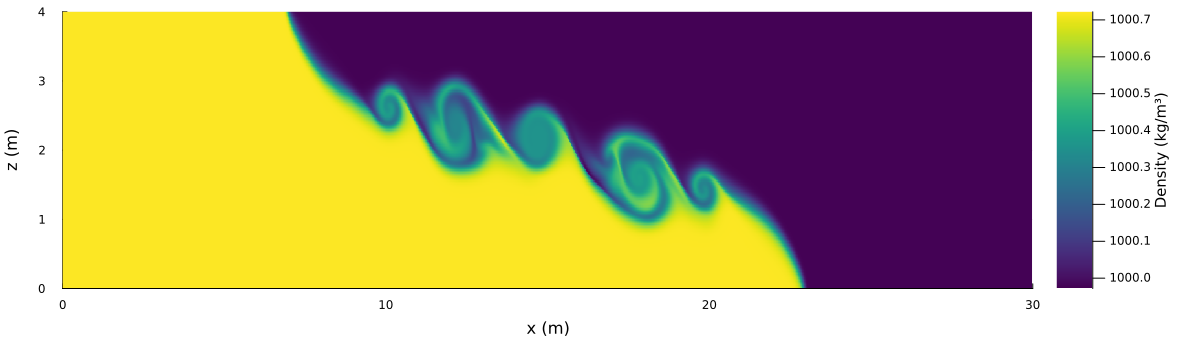
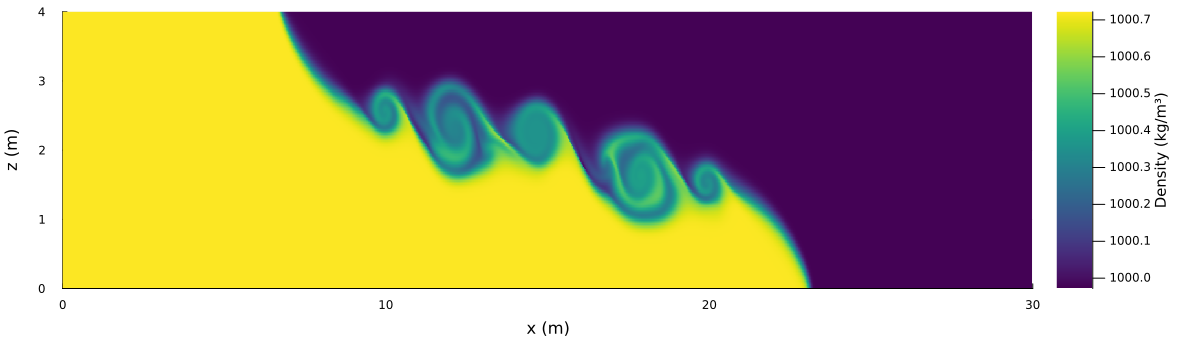
Lock exchange: run without Froude limiter
The limiter rescales the whole velocity field when max|u| exceeds
0.9 sqrt(g' H) = 0.154 m/s. In the non-hydrostatic 1500 x 200 run it was
active in 16 of 100 one-second samples, capped the billow velocities and
slowed both fronts (mean front speed 0.933 U). Without it the run is stable
(max CFL 0.15, density within the initial range), max|u| reaches 0.183 m/s
and the mean front speed is 0.963 U. The hydrostatic results are unchanged
(the limiter never acted there).

cases.jl switches the limiter off for all lock-exchange scripts. Figures and
README numbers updated (non-hydrostatic tvd2 and upwind1-transport cases).

Changed region(s): [[0.2158, 0.0294, 0.6783, 0.8529]]

diff --git a/experiments/lock_exchange/README.md b/experiments/lock_exchange/README.md
@@ -15,12 +15,13 @@ Density 100 s after the removal of the gate between heavy (yellow) and light
 - 30 m x 4 m channel, gate at 15 m, rho1 = 1000.722 kg/m3, rho2 = 999.972 kg/m3;
 - `tvd2` momentum and density advection;
 - inviscid (nu = 0), Rayleigh damping r = 0.002 1/s;
-- Froude limiter at 0.9: it rescales the velocity field when max|u| > 0.9 sqrt(g' H) = 0.154 m/s. In the
-  non-hydrostatic runs it is active from about 37 s on, in 16 of 100 one-second samples, and caps the
-  velocity in the billows;
+- no Froude limiter. With the limiter at 0.9 (it rescales the whole velocity field when
+  max|u| > 0.9 sqrt(g' H) = 0.154 m/s) the non-hydrostatic run was limited in 16 of 100 one-second samples,
+  the billow velocities were capped and both fronts were slower (0.933 U instead of 0.963 U). Without it the
+  run is stable (max CFL 0.15); max|u| reaches 0.183 m/s in the billows;
 - non-hydrostatic: 1500 x 200 grid (dx = dz = 0.02 m), dt = 0.01 s;
 - hydrostatic: 600 x 80 grid (dx = dz = 0.05 m), dt = 0.01 s. No billows develop that would need the
-  finer grid. The front speed is 2 % above the 1500 x 200 result (0.959 vs. 0.939 U).
+  finer grid. The front speed is 2 % above an earlier hydrostatic run on 1500 x 200 (0.959 vs. 0.939 U).
 
 Script: `plot_density_hydro_vs_nonhydro_100s.jl`.
 
@@ -37,15 +38,15 @@ diffuse interface between them.
 
 **Density transport scheme.** The same non-hydrostatic run with first-order upwind (`upwind1`)
 density transport. The interfaces are smeared and the fine structure inside the billows is lost:
-the area of mixed water (heavy-water fraction between 0.05 and 0.95) is 13.1 m² against 6.6 m²
-with `tvd2`. The fronts move by less than 0.1 m.
+the area of mixed water (heavy-water fraction between 0.05 and 0.95) is 14.0 m² against 7.4 m²
+with `tvd2`. The fronts move by about 0.1 m.
 
 ![Lock exchange, non-hydrostatic, upwind1 density transport, t = 100 s](figures/lock_exchange_nonhydro_upwind1_transport_t100s.png)
 
 | t = 100 s | heavy front (bottom) | light front (top) | mean front speed |
 |---|---|---|---|
-| non-hydrostatic, `tvd2` transport | 22.95 m | 6.95 m | 0.933 U |
-| non-hydrostatic, `upwind1` transport | 22.89 m | 6.99 m | 0.927 U |
+| non-hydrostatic, `tvd2` transport | 23.21 m | 6.69 m | 0.963 U |
+| non-hydrostatic, `upwind1` transport | 23.09 m | 6.79 m | 0.950 U |
 | hydrostatic, `tvd2` transport | 23.23 m | 6.78 m | 0.959 U |
 
 U = 0.5 sqrt(g' H) = 0.0858 m/s; the mean speed is the average front displacement from the gate divided by 100 s
